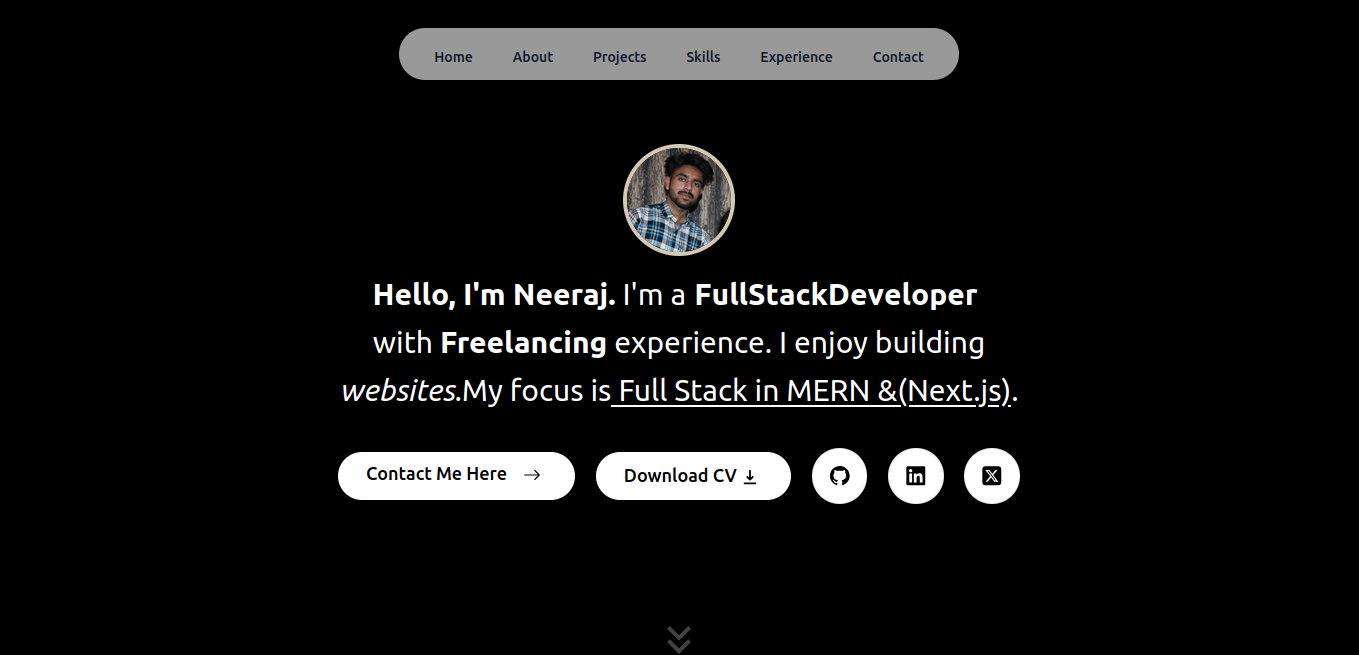
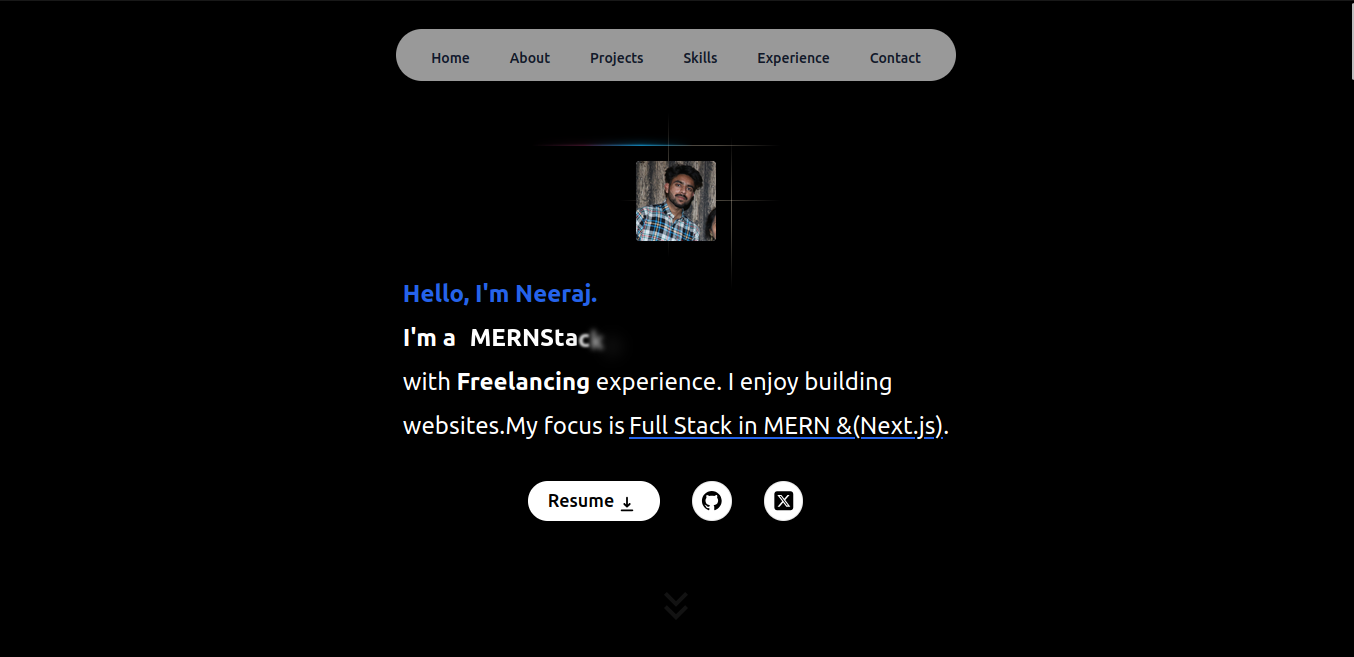
chngs

diff --git a/src/components/Intro.tsx b/src/components/Intro.tsx
@@ -1,12 +1,13 @@
 import  { WordsFlip }  from "./ui/WordsFlip";
-import AnchorLink from "react-anchor-link-smooth-scroll";
+// import AnchorLink from "react-anchor-link-smooth-scroll";
 import { GrGithub } from "react-icons/gr";
-import { FaLinkedin } from "react-icons/fa";
+// import { FaLinkedin } from "react-icons/fa";
 import { motion } from "framer-motion";
 import { FaSquareXTwitter } from "react-icons/fa6";
-import { BsArrowRight } from "react-icons/bs";
+// import { BsArrowRight } from "react-icons/bs";
 import { HiDownload } from "react-icons/hi";
-import profile from "../../public/profilepic.jpg"
+// import profile from "../../public/profilepic.jpg"
+import Avatar from "./ui/Avatar-animation";
 
 
 
@@ -23,41 +24,47 @@ export const Intro = () => {
               duration: 0.2,
             }}
           >
-            <img src={profile} className="size-28 rounded-full border-4 border-customcream" alt="image is not available" />
+            {/* <img src={profile} className="size-28 rounded-full border-4 border-customcream" alt="image is not available" /> */}
+            <Avatar/>
             </motion.div>
             
             </div>
-        <motion.div className="flex items-center justify-center pt-5"
+        <motion.div className="flex items-center justify-center font-sans pt-5"
         initial={{ opacity: 0, y: 100 }}
         animate={{ opacity: 1, y: 0 }}
         >
-            <div className="space-y-3 text-sm sm:text-3xl">
-                <div className="overflow-y-hidden">
-                    <span className="font-bold ">Hello, I&apos;m Neeraj.</span> I&apos;m a
-                    <span className="font-bold"><WordsFlip className="!text-white" duration={2000} words={words} /></span>
+            <div className="space-y-3 text-base sm:text-2xl">
+                <div className="overflow-y-hidden flex">
+                    <p className="font-bold text-blue-600">Hello, I&apos;m Neeraj.</p> 
                 </div>
-                <div>
-                    with
-                    <span className="font-bold"> Freelancing</span> experience. I enjoy
-                    building 
+                <div className="flex">
+                <p className="font-bold">I&apos;m a <WordsFlip className="!text-white" duration={2000} words={words} /></p>
                 </div>
-                <div>
-                    <span className="italic">websites</span>.My focus is
-                    <span className="underline"> Full Stack in MERN &(Next.js)</span>.
+                <div className="flex">
+                    <p>with <strong> Freelancing</strong> experience. I enjoy building </p>
+                </div>
+                <div className="flex">
+                    <p className=" pr-1">websites.My focus is</p>
+                    <p className="underline decoration-blue-600"> Full Stack in MERN &(Next.js)</p>.
                 </div>
             </div>
         </motion.div>
-        <div className="flex flex-col justify-center gap-[1.3rem] px-4 sm:flex-row items-center text-lg font-medium mx-11 mt-10">
-            <AnchorLink href="#contact" className="focus:scale-[1.10] hover:scale-[1.10] transition bg-white hover:bg-zinc-300 border-none text-black gap-2 px-7 py-2 text-lg rounded-full shadow-xl flex" >Contact Me Here 
-                 <div className="flex pt-1.5 size-8 text-black pl-2"><BsArrowRight/></div>
-            </AnchorLink>
-            <a href="/Resume.pdf" download="Resume.pdf" className="focus:scale-[1.10] hover:scale-[1.10] transition hover:bg-zinc-300 active:scale-105 text-black bg-white px-7 py-2.5 text-lg border-black rounded-full shadow-xl flex">Download CV
-                <div className="pt-1.5 text-gray-500 mx-1"><HiDownload color="black"/></div>
-            </a>
+        <div className="flex flex-col justify-center gap-[1.3rem] px-4 sm:flex-row text-lg font-medium mx-11 mt-10">
+            <div className="flex flex-row  space-x-8">
+            {/* <AnchorLink href="#contact" className="focus:scale-[1.10] hover:scale-[1.10] transition bg-white hover:bg-zinc-300 border-none text-black gap-1 px-5 py-2 text-sm md:text-lg rounded-full shadow-xl flex" >Contact 
+                 <div className="flex pt-1 size-8 text-black pl-2"><BsArrowRight/></div>
+            </AnchorLink> */}
+            <a href="/Resume.pdf" download="Resume.pdf" className="items-center focus:scale-[1.10] hover:scale-[1.10] transition hover:bg-zinc-300 active:scale-105 text-black bg-white px-5  text-sm md:text-lg border-black rounded-full shadow-xl flex">Resume
+                <div className="pt-1 md:pt-1.5 text-gray-500 mx-1"><HiDownload color="black"/></div>
+            </a>    
+            <a className="group border-black/10 p-2 items-center text-[1.35rem] shadow-xl bg-white rounded-full flex gap-2 focus:scale-[1.15] hover:scale-[1.15] hover:text-gray-950 hover:bg-zinc-300 active:scale-105 transition cursor-pointer border" href="https://github.com/Neeraj-gagat" target="_blank" ><GrGithub color="black"  /> </a>
+            <a className="group border-black/10 p-2 items-center text-[1.35rem] shadow-xl bg-white rounded-full flex gap-2 focus:scale-[1.15] hover:scale-[1.15] hover:text-gray-950 hover:bg-zinc-300 active:scale-105 transition cursor-pointer border" href="https://x.com/Neeraj_tw" target="_blank"><FaSquareXTwitter color="black" /></a>
+            </div>
+            
             <div className="flex gap-[1.3rem]">
-            <a className="group border-black/10 p-4 items-center text-[1.35rem] shadow-xl bg-white rounded-full flex gap-2 focus:scale-[1.15] hover:scale-[1.15] hover:text-gray-950 hover:bg-zinc-300 active:scale-105 transition cursor-pointer border" href="https://github.com/Neeraj-gagat" target="_blank" ><GrGithub color="black"  /> </a>
-            <a className="group border-black/10 p-4 items-center text-[1.35rem] shadow-xl bg-white rounded-full flex gap-2 focus:scale-[1.15] hover:scale-[1.15] hover:text-gray-950 hover:bg-zinc-300 active:scale-105 transition cursor-pointer border" href="https://in.linkedin.com/in/neeraj-gagat-6b59b8210?original_referer=https%3A%2F%2Fwww.google.com%2F" target="_blank"><FaLinkedin color="black" /></a>
-            <a className="group border-black/10 p-4 items-center text-[1.35rem] shadow-xl bg-white rounded-full flex gap-2 focus:scale-[1.15] hover:scale-[1.15] hover:text-gray-950 hover:bg-zinc-300 active:scale-105 transition cursor-pointer border" href="https://x.com/Neeraj_tw" target="_blank"><FaSquareXTwitter color="black" /></a>
+            {/* <a className="group border-black/10 p-2 items-center text-[1.35rem] shadow-xl bg-white rounded-full flex gap-2 focus:scale-[1.15] hover:scale-[1.15] hover:text-gray-950 hover:bg-zinc-300 active:scale-105 transition cursor-pointer border" href="https://github.com/Neeraj-gagat" target="_blank" ><GrGithub color="black"  /> </a> */}
+            {/* <a className="group border-black/10 p-2 items-center text-[1.35rem] shadow-xl bg-white rounded-full flex gap-2 focus:scale-[1.15] hover:scale-[1.15] hover:text-gray-950 hover:bg-zinc-300 active:scale-105 transition cursor-pointer border" href="https://in.linkedin.com/in/neeraj-gagat-6b59b8210?original_referer=https%3A%2F%2Fwww.google.com%2F" target="_blank"><FaLinkedin color="black" /></a>
+            <a className="group border-black/10 p-2 items-center text-[1.35rem] shadow-xl bg-white rounded-full flex gap-2 focus:scale-[1.15] hover:scale-[1.15] hover:text-gray-950 hover:bg-zinc-300 active:scale-105 transition cursor-pointer border" href="https://x.com/Neeraj_tw" target="_blank"><FaSquareXTwitter color="black" /></a> */}
             </div>
         </div>
     </div>

diff --git a/src/components/ui/Avatar-animation.tsx b/src/components/ui/Avatar-animation.tsx
@@ -1,0 +1,82 @@
+'use client'
+import { motion } from 'framer-motion'
+import avatar from '../../../public/profilepic.jpg'
+const Avatar = () => {
+  return (
+    <div className="relative order-first shrink p-4 md:order-last md:p-4">
+      <a href="https://x.com/Neeraj_tw " target="__blank">
+        <motion.div
+          initial={{ opacity: 0, filter: 'blur(10px)' }}
+          whileInView={{ opacity: 1, filter: 'blur(0px)' }}
+          transition={{ duration: 0.5, delay: 0.7 }}
+          viewport={{ once: true }}
+          className="relative z-[5] block size-16 md:size-20 max-h-20 max-w-20 overflow-hidden rounded bg-white shadow-xl ring-1 ring-slate-900/5"
+        >
+          <img
+            className='w-[64px] md:w-[80px]'
+            src={avatar}
+            // placeholder="blur"
+            alt="avatar"
+            height={80}
+            width={80}
+          />
+        </motion.div>
+      </a>
+      <div className="z-0">
+        <motion.div
+          initial={{ scale: 0 }}
+          whileInView={{ scale: 1 }}
+          style={{ originX: 0, originY: 0 }}
+          viewport={{ once: true }}
+          transition={{ duration: 0.5, delay: 0.1 }}
+          className="absolute -right-12 left-0 top-0 h-px bg-slate-900/[0.1] [mask-image:linear-gradient(to_right,transparent,white_4rem,white_calc(100%-4rem),transparent)] dark:bg-orange-100/30"
+        ></motion.div>
+        <motion.div
+          initial={{ scale: 0 }}
+          whileInView={{ scale: 1 }}
+          viewport={{ once: true }}
+          style={{ originX: 0.5, originY: 0 }}
+          transition={{ duration: 0.5, delay: 0.15 }}
+          className="absolute -top-8 bottom-0 left-12 w-px bg-slate-900/[0.1] [mask-image:linear-gradient(to_top,transparent,white_4rem,white_calc(100%-4rem),transparent)] dark:bg-orange-100/30"
+        ></motion.div>
+        <motion.div
+          initial={{ scale: 0 }}
+          whileInView={{ scale: 1 }}
+          viewport={{ once: true }}
+          transition={{ duration: 0.5, delay: 0.2 }}
+          style={{ originX: 0, originY: 0 }}
+          className="absolute -right-12 bottom-14 left-0 h-px bg-slate-900/[0.1] [mask-image:linear-gradient(to_right,transparent,white_4rem,white_calc(100%-4rem),transparent)] dark:bg-orange-100/30"
+        ></motion.div>
+        <motion.div
+          initial={{ scale: 0 }}
+          style={{ originX: 0.5, originY: 1 }}
+          whileInView={{ scale: 1 }}
+          viewport={{ once: true }}
+          transition={{ duration: 0.5, delay: 0.25 }}
+          className="absolute -bottom-8 -top-2 right-0 w-px bg-slate-900/[0.1] [mask-image:linear-gradient(to_top,transparent,white_4rem,white_calc(100%-4rem),transparent)] dark:bg-orange-100/30"
+        ></motion.div>
+        <div className="absolute bottom-full right-10 -mb-px flex h-8 items-end overflow-hidden">
+          <div className="-mb-px flex h-[2px] w-40 -scale-x-100">
+            <motion.div
+              initial={{ scale: 0 }}
+              viewport={{ once: true }}
+              whileInView={{ scale: 1 }}
+              style={{ originX: 0, originY: 0 }}
+              transition={{ duration: 0.5, delay: 0.25 }}
+              className="w-full flex-none blur-sm [background-image:linear-gradient(90deg,rgba(56,189,248,0)_0%,#0EA5E9_32.29%,rgba(236,72,153,0.3)_67.19%,rgba(236,72,153,0)_100%)]"
+            ></motion.div>
+            <motion.div
+              viewport={{ once: true }}
+              initial={{ scale: 0 }}
+              whileInView={{ scale: 1 }}
+              style={{ originX: 0, originY: 0 }}
+              transition={{ duration: 0.5, delay: 0.3 }}
+              className="ml-[-100%] w-full flex-none blur-[1px] [background-image:linear-gradient(90deg,rgba(56,189,248,0)_0%,#0EA5E9_32.29%,rgba(236,72,153,0.3)_67.19%,rgba(236,72,153,0)_100%)]"
+            ></motion.div>
+          </div>
+        </div>{' '}
+      </div>
+    </div>
+  )
+}
+export default Avatar

diff --git a/src/components/AppBar.tsx b/src/components/AppBar.tsx
@@ -9,7 +9,7 @@ export const AppBar = () =>{
     animate={{ y: 0, x: "-50%", opacity: 1 }}
     >
     <nav className="flex justify-center w-[20rem] space-x-4 sm:space-x-10 sm:w-[30rem] mt-2 sm:mt-0">
-      <AnchorLink offset={100} href="#home" className="text-gray-900 focus:text-black hover:text-black pt-0.5 rounded-md text-xs md:text-sm font-medium">
+      <AnchorLink offset={100} href="#home" className="text-slate-900 focus:text-black hover:text-black pt-0.5 rounded-md text-xs md:text-sm font-medium">
         Home
       </AnchorLink>
       <AnchorLink offset={100} href="#about" className="text-gray-900 focus:text-black hover:text-black pt-0.5 rounded-md text-xs md:text-sm font-medium">

diff --git a/src/components/AboutMe.tsx b/src/components/AboutMe.tsx
@@ -1,7 +1,7 @@
 import { motion } from "framer-motion";
 
 export const AboutMe = () => {
-    return <div id="about" className="flex bg-black justify-center px-10">
+    return <div id="about" className="flex bg-black justify-center px-5 md:px-10">
             <motion.section
             className="mb-28 max-w-[45rem] text-center leading-8 sm:mb-40 text-base scroll-mt-28 justify-center"
             initial={{ opacity: 0, y: 100 }}

diff --git a/src/components/SectionDevider.tsx b/src/components/SectionDevider.tsx
@@ -6,7 +6,7 @@ export default function SectionDivider() {
       <motion.div
         initial={{ opacity: 0, y: 100 }}
         animate={{ opacity: 1,y: [0, 20, 0], transition: { duration: 1.5, repeat: Infinity, repeatType: "mirror"} }}
-        className="my-24 text-white"
+        className="my-10 md:my-14 text-white"
       >
         <MdKeyboardDoubleArrowDown className="text-5xl" />
       </motion.div>
